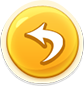
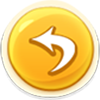
fix button setting

diff --git a/projects/prototype/Classes/FooterNode.cpp b/projects/prototype/Classes/FooterNode.cpp
@@ -24,11 +24,11 @@ bool FooterNode::init()
 	Sprite* pSettingSprite = Sprite::create("Footer/btn_setting.png");
 	Sprite* pSettingSpriteActive = Sprite::create("Footer/btn-back-menu.png");
 	m_pButtonSettingNode = ButtonNode::createButtonSprite(pSettingSprite, pSettingSpriteActive, CC_CALLBACK_1(FooterNode::openSettingMenu, this));
-	m_pButtonSettingNode->setPosition(Point(41.0f, 41.0f));
+	m_pButtonSettingNode->setPosition(Point(50.0f, 50.0f));
 
 	Sprite* pFlashCardSprite = Sprite::create("Footer/btn_flashcard.png");
 	m_pButtonFlashCardNode = ButtonNode::createButtonSprite(pFlashCardSprite, CC_CALLBACK_1(FooterNode::openFlashCardCollection, this));
-	m_pButtonFlashCardNode->setPosition(Point(140.0f, 41.0f));
+	m_pButtonFlashCardNode->setPosition(Point(220.0f, 50.0f));
 
 	Sprite* pIntroductionSprite = Sprite::create("Footer/info_icon.png");
 	m_pButtonIntroductionNode = ButtonNode::createButtonSprite(pIntroductionSprite, CC_CALLBACK_1(FooterNode::openIntroduction, this));

diff --git a/projects/prototype/Classes/HelloWorldScene.cpp b/projects/prototype/Classes/HelloWorldScene.cpp
@@ -50,7 +50,7 @@ Scene* HelloWorld::createScene(int iLevel)
 	Sprite* pSettingSprite = Sprite::create("Footer/btn_setting.png");
 	Sprite* pSettingSpriteActive = Sprite::create("Footer/btn-back-menu.png");
 	boardLayer->m_pButtonSettingNode = ButtonNode::createButtonSprite(pSettingSprite, pSettingSpriteActive, CC_CALLBACK_1(HelloWorld::menuCloseCallback, boardLayer));
-	boardLayer->m_pButtonSettingNode->setPosition(Point(41.0f, 41.0f));
+	boardLayer->m_pButtonSettingNode->setPosition(Point(50.0f, 48.0f));
 
 	ButtonManagerNode* pButtonManagerNode = ButtonManagerNode::create();
 	pButtonManagerNode->addButtonNode(boardLayer->m_pButtonSettingNode);

diff --git a/projects/prototype/Classes/MainMenuScene.cpp b/projects/prototype/Classes/MainMenuScene.cpp
@@ -67,7 +67,7 @@ bool MainMenuLayer::init()
 	Sprite* pSettingSprite = Sprite::create("Footer/btn_setting.png");
 	Sprite* pSettingSpriteActive = Sprite::create("Footer/btn-back-menu.png");
 	m_pButtonSettingNode = ButtonNode::createButtonSprite(pSettingSprite, pSettingSpriteActive, CC_CALLBACK_1(MainMenuLayer::openSettingMenu, this));
-	m_pButtonSettingNode->setPosition(Point(41.0f, 41.0f));
+	m_pButtonSettingNode->setPosition(Point(50.0f, 50.0f));
 
 	ButtonManagerNode* pButtonManagerNode = ButtonManagerNode::create();
 	pButtonManagerNode->addButtonNode(buttonPlayNode);
